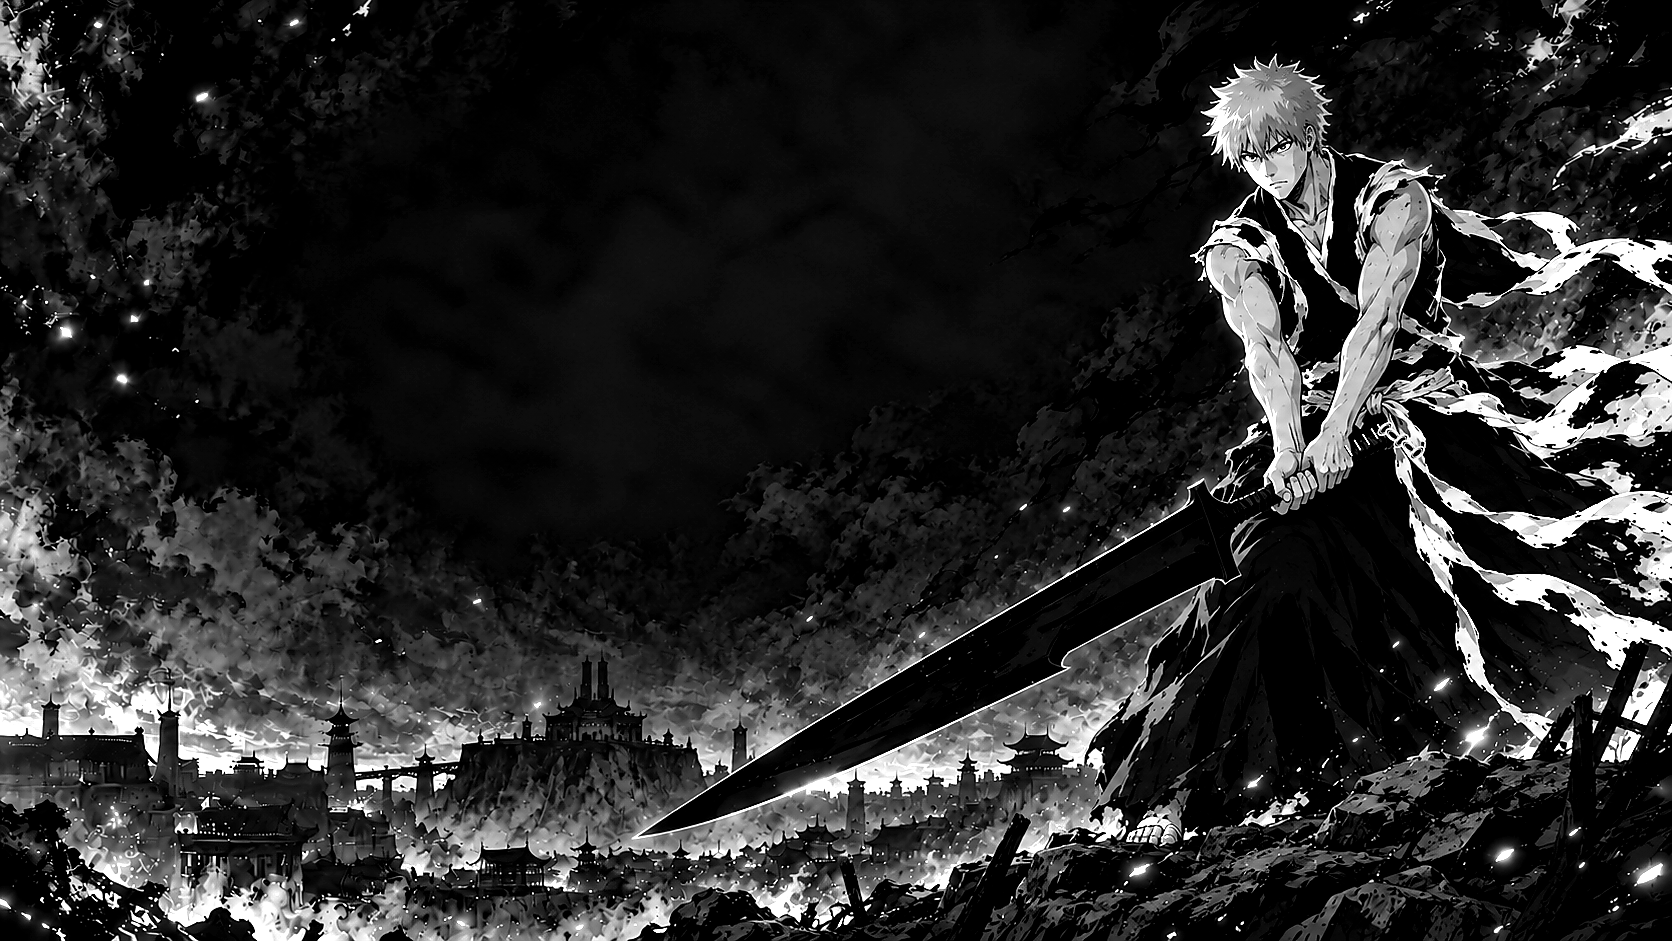
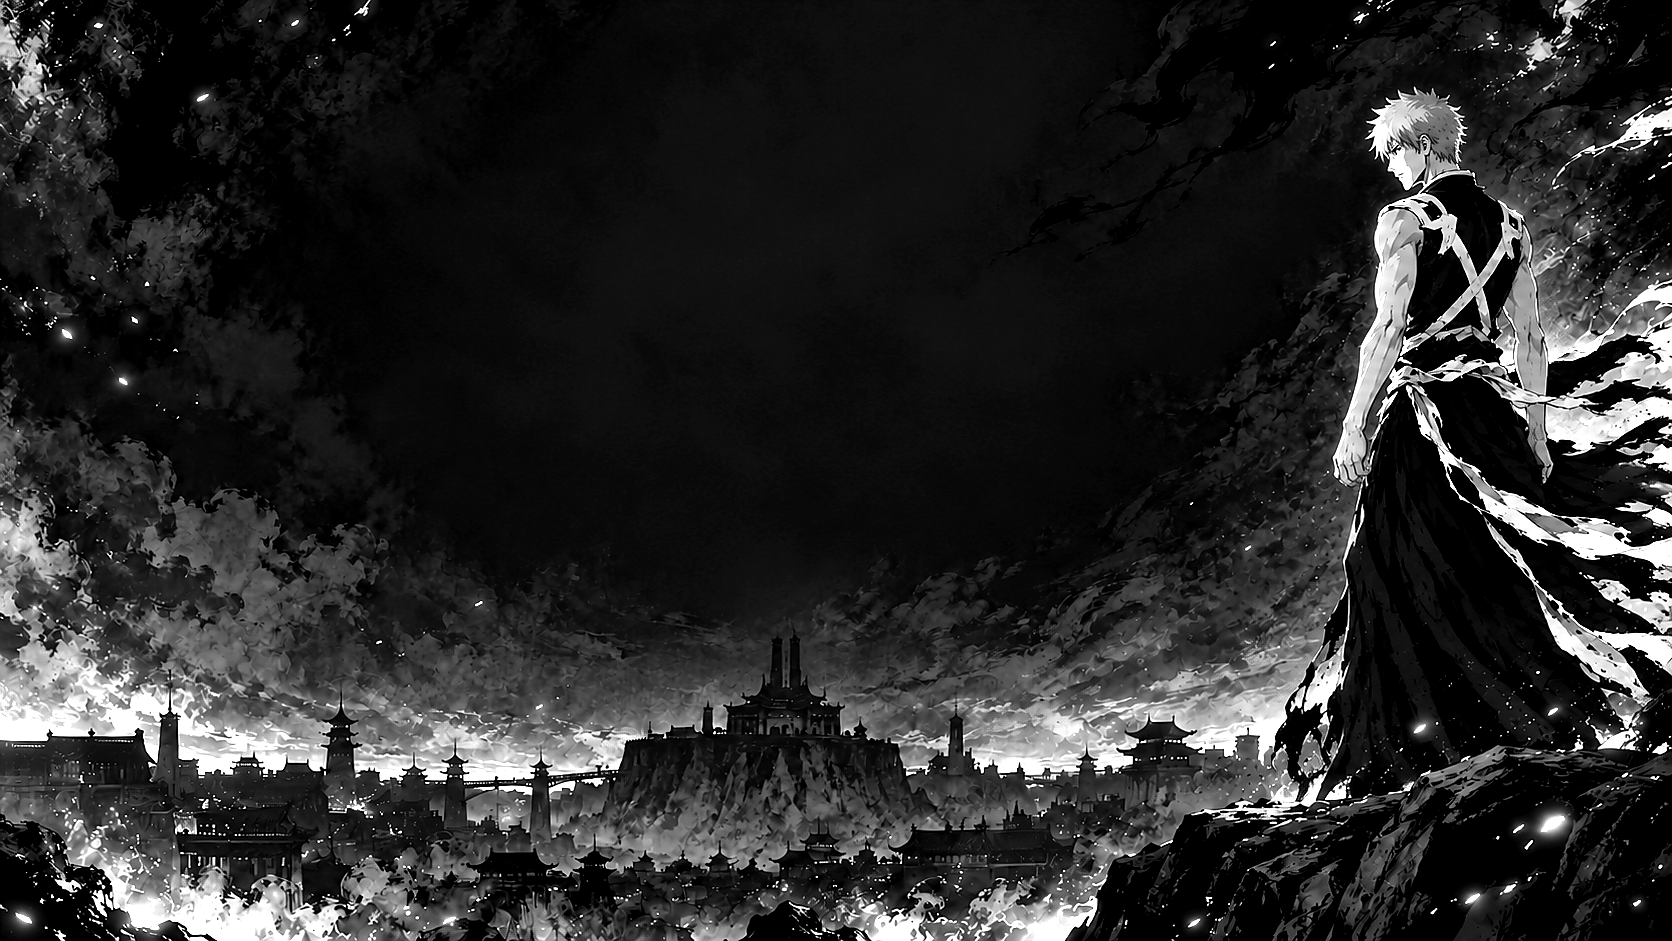
Give Ichigo a weapon-free wallpaper pose

diff --git a/docs/ARTWORK.md b/docs/ARTWORK.md
@@ -12,7 +12,7 @@ Nemu Kurotsuchi, Askin Nakk Le Vaar, Lille Barro and Yachiru Kusajishi were adde
 
 ## Login and boot artwork
 
-The [manga login screen](../login/README.md) includes twelve black-and-white manga scene conversions of the full desktop wallpapers. [Exact prompt, source references, dimensions and hashes](../login/ARTWORK.json) are preserved. The Ichigo desktop scene is now `ichigo-desktop-v5.png`, with a forward-facing two-handed sword-guard pose and a locally retouched Zangetsu hilt and chain. Its matching monochrome login scene uses the same pose and was converted locally from the desktop image. Prompts, conversion details and hashes are recorded in [the TYBW expansion record](prompts/tybw-expansion-20261020/PROMPTS.json). The TYBW expansion also adds four backgrounds, corrects Yamamoto and adds separate True Shikai Ichigo and Bankai Kenpachi terminal portraits. The original Dangai portrait asset remains for migration compatibility. The paper layout, ink borders and lettering are drawn by QML; `login/preview.png` uses dummy login data. These unofficial fan-art scenes follow the same separate artwork terms above.
+The [manga login screen](../login/README.md) includes twelve black-and-white manga scene conversions of the full desktop wallpapers. [Exact prompt, source references, dimensions and hashes](../login/ARTWORK.json) are preserved. The Ichigo desktop and login scenes use a weapon-free standing pose; the matching monochrome login scene was converted locally from the wallpaper. The TYBW expansion also adds four backgrounds, corrects Yamamoto and adds separate True Shikai Ichigo and Bankai Kenpachi terminal portraits. The original Dangai portrait asset remains for migration compatibility. The paper layout, ink borders and lettering are drawn by QML; `login/preview.png` uses dummy login data. These unofficial fan-art scenes follow the same separate artwork terms above.
 
 The [Ichigo boot splash](../boot/README.md) has its own [asset and prompt record](../boot/ARTWORK.json). Its character cutout is also excluded from the code MIT license. Aura, particle and loading-bar assets are generated from code-native geometry. Hollow-mask boot assets have been removed; the current splash always uses Ichigo.
 
